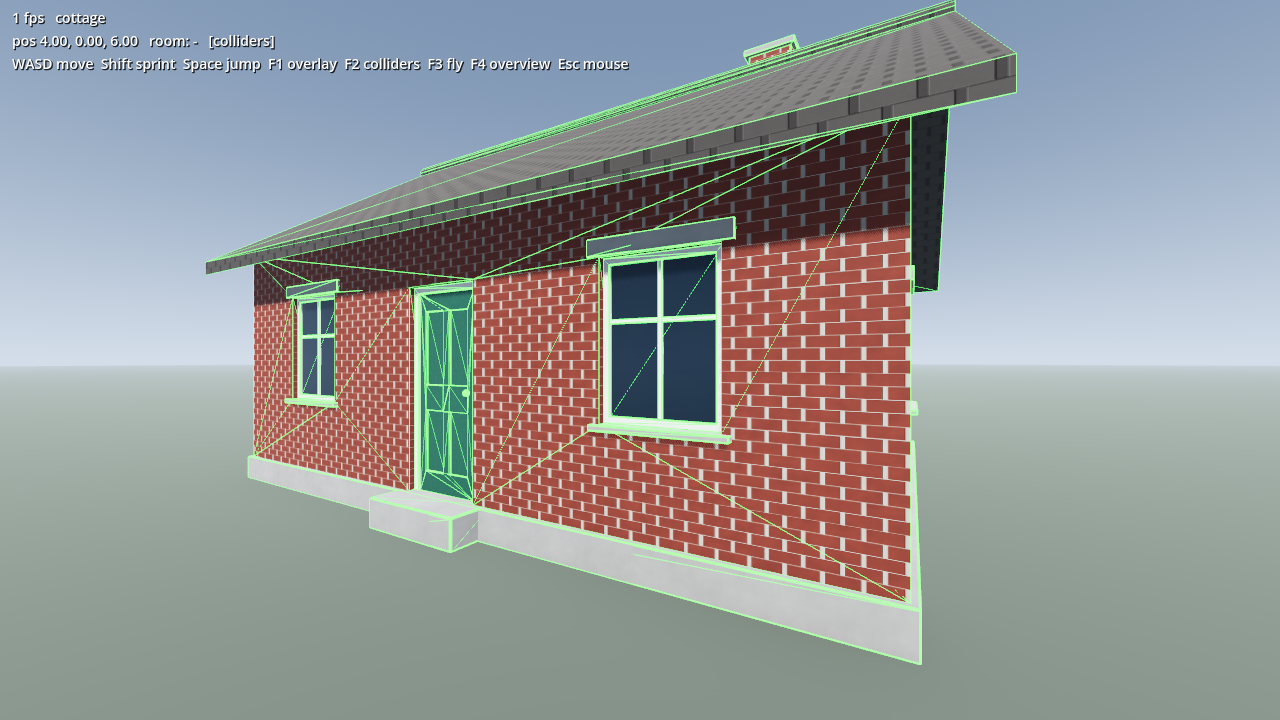
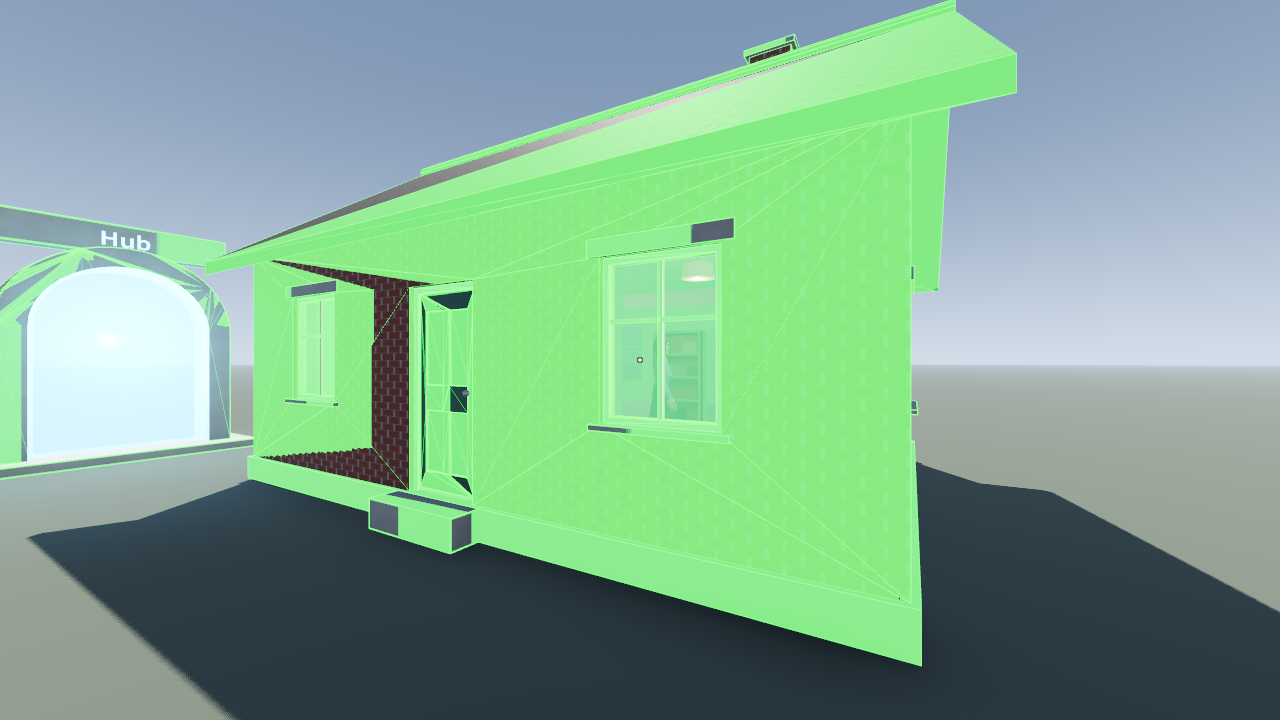
README: groups and held items, a fairgoers shot; screenshots regenerated
The README's NPC and runtime features mention groups that keep loosely together, items
held in the hand and the npc_blocked check, with a Godot shot of a fair group holding what
they bought (docs/make_fair_shot.py, run by make_screenshots.sh). Every screenshot is
regenerated; the room is now shown with --cutaway (it has a ceiling) and the town framed on
the district (--frame city), since the railway beside it made the auto-frame a speck.

diff --git a/docs/make_fair_shot.py b/docs/make_fair_shot.py
@@ -1,0 +1,57 @@
+"""The README's fairgoers shot: a group at the amusement park (examples/amusement_park), each
+holding something from the stalls. Exports the example, opens the runtime in a window over the
+control API, hands the biggest group a hot dog, a lemonade and a balloon, and frames them from
+the front. Run from the repository root (docs/make_screenshots.sh does):
+
+    .venv/bin/python docs/make_fair_shot.py docs/images/godot_fairgoers.png
+"""
+
+import math
+import sys
+import tempfile
+from collections import defaultdict
+from pathlib import Path
+
+from geogen import roots
+from geogen.export import export_scene
+from geogen.registry import SceneRegistry
+from geogen.runtime_client import RuntimeClient
+
+SCENE = "amusement_park"
+ITEMS = ["hot_dog", "lemonade_cup", "balloon"]
+
+
+def main(out: Path) -> None:
+    generated = Path(tempfile.mkdtemp(prefix="geogen_fair_")).resolve()
+    roots.use(Path("examples/amusement_park"))
+    try:
+        registry = SceneRegistry()
+        registry.discover()
+        export_scene(registry[SCENE](), generated / f"{SCENE}.glb")
+    finally:
+        roots.use()
+    rt = RuntimeClient.launch(SCENE, generated=str(generated), engine_args=())
+    try:
+        rt.call("wait_ready", timeout=120)
+        groups = defaultdict(list)
+        for npc in rt.call("npcs.list"):
+            if npc.get("group"):
+                groups[npc["group"]].append(npc)
+        group = max(groups.values(), key=len)
+        for npc, item in zip(group, ITEMS):
+            rt.call("inventory.give", item=item, actor=npc["actor"])
+        rt.call("time.advance", seconds=0.5)
+        people = [n for n in rt.call("npcs.list") if n["npc"] in {g["npc"] for g in group}]
+        centre = [sum(p["position"][i] for p in people) / len(people) for i in range(3)]
+        yaw = math.radians(people[0]["yaw"])
+        ahead = (math.sin(yaw), math.cos(yaw))
+        at = [centre[0], centre[1] + 1.0, centre[2]]
+        frm = [at[0] + ahead[0] * 3.6 + ahead[1] * 1.2, at[1] + 0.5, at[2] + ahead[1] * 3.6 - ahead[0] * 1.2]
+        rt.call("capture.screenshot", path=str(out.resolve()), **{"from": frm, "at": at}, fov=45)
+        print("fairgoers:", [(p["npc"], p.get("holding")) for p in people])
+    finally:
+        rt.close()
+
+
+if __name__ == "__main__":
+    main(Path(sys.argv[1] if len(sys.argv) > 1 else "docs/images/godot_fairgoers.png"))

diff --git a/README.md b/README.md
@@ -70,6 +70,10 @@ The goal is nested, generated worlds: cities that contain neighbourhoods that co
 |---|---|---|
 | ![NPC walking](docs/images/godot_npc_walking.png) | ![NPC in the armchair](docs/images/godot_npc_armchair.png) | ![NPC on the doorstep](docs/images/godot_npc_doorstep.png) |
 
+**Fairgoers**: the amusement park's crowd come in groups of one to three that stay loosely together: the others wander near the leader, drift back when they've been apart a while, and take the seats beside each other's. They buy from the stalls and carry what they bought in their hands while they eat it, then bin the wrapper:
+
+![Fairgoers in the amusement park](docs/images/godot_fairgoers.png)
+
 **People**: humanoid characters are generated from a skeleton and a body shape. Presets, body types, skin tones, hair styles and outfits are all parameters, and character archetypes draw them at random, so a crowd is a set of seeds. Bodies are skinned, posed with IK, animated with procedural walk and idle clips, and dressed in garments that follow the body:
 
 ![People gallery](docs/images/geogen_people.png)
@@ -96,7 +100,7 @@ The goal is nested, generated worlds: cities that contain neighbourhoods that co
   - multi-room floor plans, with walls, doors and windows generated from room rectangles;
   - multi-storey buildings with stair cores, lifts, façades and roofs;
   - interior finishes (linings, skirting, cornices, lights and switches).
-- **Furnishing**: room archetypes (bedroom, bathroom, lobby, office, shop, ...) furnish rooms automatically. Layout QA checks for overlaps, blocked door swings and windows, doors too narrow for the player, unreachable furniture and z-fighting surfaces.
+- **Furnishing**: room archetypes (bedroom, bathroom, lobby, office, shop, ...) furnish rooms automatically. Layout QA checks for overlaps, blocked door swings and windows, doors too narrow for the player, unreachable furniture, z-fighting surfaces and NPCs placed inside something solid.
 - **Interactions**: doors, drawers, switches, TVs and lifts are declarative state machines, with locks, keys, auto-close and seats (sit / lie). They're exported as extras and as glTF animations.
 - **Cities**:
   - a street grid with blocks and lots;
@@ -127,7 +131,7 @@ The goal is nested, generated worlds: cities that contain neighbourhoods that co
   - a lane graph for city streets and declared routes, with turns, conflicts, crosswalks and traffic signals;
   - kerbside parking;
   - railways with stations and level crossings, and timetabled trains.
-- **NPCs**: declarative characters. Assets advertise affordances (sit, lie, look, stand, use) with what they satisfy, doors advertise portals, and actions are step lists (`assets/npcs/actions.yaml`). An NPC definition (`assets/npcs/resident.yaml`) gives a body asset, needs, preferences and scoring weights. The runtime runs these as a generic interpreter: utility selection, navmesh walking, poses, and opening doors on the way.
+- **NPCs**: declarative characters. Assets advertise affordances (sit, lie, look, stand, use) with what they satisfy, doors advertise portals, and actions are step lists (`assets/npcs/actions.yaml`). An NPC definition (`assets/npcs/resident.yaml`) gives a body asset, needs, preferences and scoring weights. A scattered crowd can come in groups (`group: {size: [1, 3]}`) that keep loosely together, and items say how a hand holds them (`held:`). The runtime runs these as a generic interpreter: utility selection, navmesh walking, poses, and opening doors on the way.
 - **Player spec**: one file (`assets/player.yaml`) defines the player's size (radius, height, eye and step height, max slope, minimum door and corridor clearances, reach). Generation and the runtime both read it, so "enterable" means the same thing on both sides.
 - **Godot 4 runtime** (`runtime/godot/`):
   - a first-person player sized from the manifest, with step-up, collision, fly mode and a debug overlay;
@@ -135,6 +139,7 @@ The goal is nested, generated worlds: cities that contain neighbourhoods that co
   - an automated playtest that checks every room is reachable;
   - NPCs that decide, walk, sit, look out of windows and use doors, with a trace, labels, a follow camera and fast headless simulation;
   - NPCs that notice the player: they look at you, wave back, and step aside;
+  - groups of friends and families that stay loosely together, and actors (the player too) holding what they carry in their hands;
   - pedestrian crowds that stroll the pavements, cross at crossings and sit on benches;
   - traffic that follows the lane graph and signals, and trains that run to a timetable and close level crossings;
   - a world clock that drives the sun, the sky, street lamps, NPC routines and the amount of traffic;
@@ -353,7 +358,7 @@ The tests cover assets, textures, exports and (when Godot is installed) the runt
 - Textures tile, and exports round-trip.
 - The Godot runtime is run headless: the player walks into the cottage (the wall blocks, the door step is climbed, the closed door blocks), rides the hotel lift, and playtests the hotel from the street.
 - In the streamed town, the tests walk the avenue into a shop and the hotel lobby.
-- NPCs, traffic, pedestrians and trains are simulated headless: residents meet their needs, traffic yields and doesn't deadlock, and trains close the level crossings in time.
+- NPCs, traffic, pedestrians and trains are simulated headless: residents meet their needs, groups stay together, traffic yields and doesn't deadlock, and trains close the level crossings in time.
 - Dressed characters are checked for clipping against a recorded baseline.
 
 The Godot tests are skipped when Godot isn't found.
